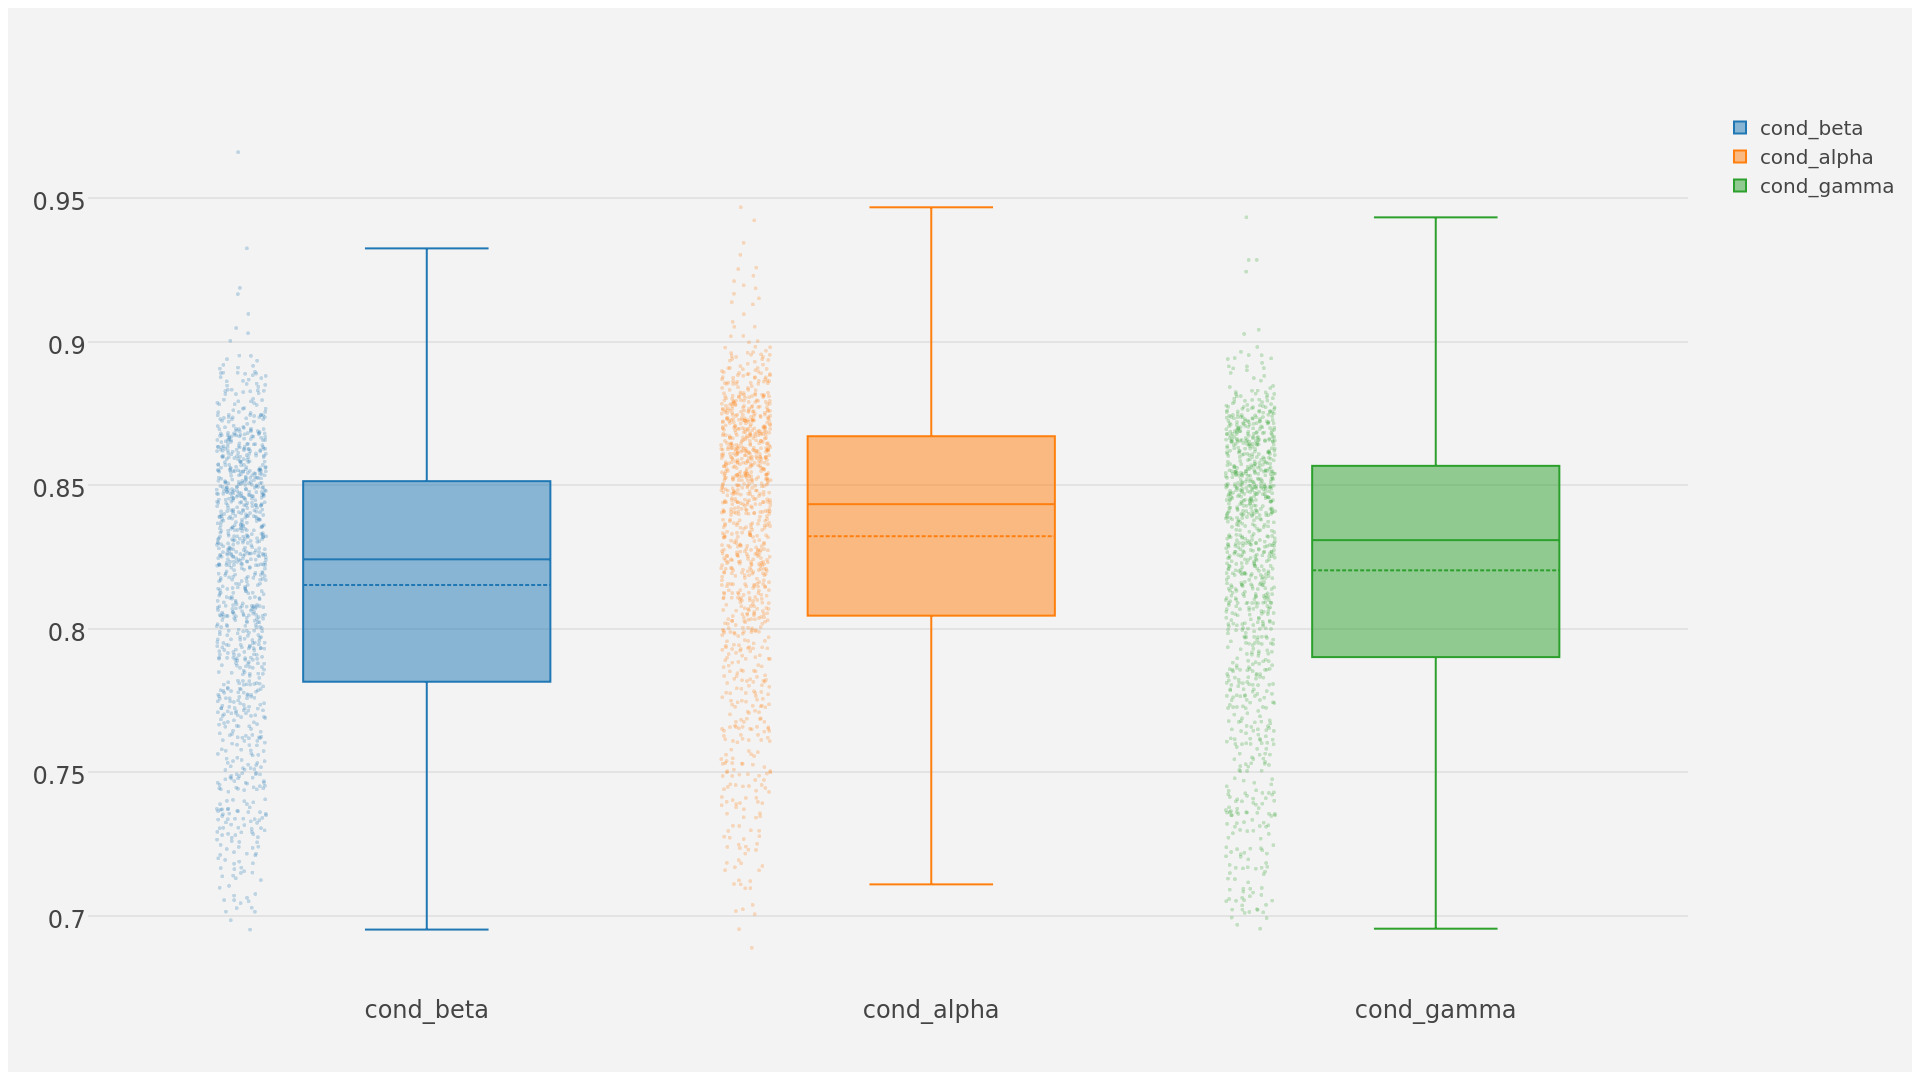
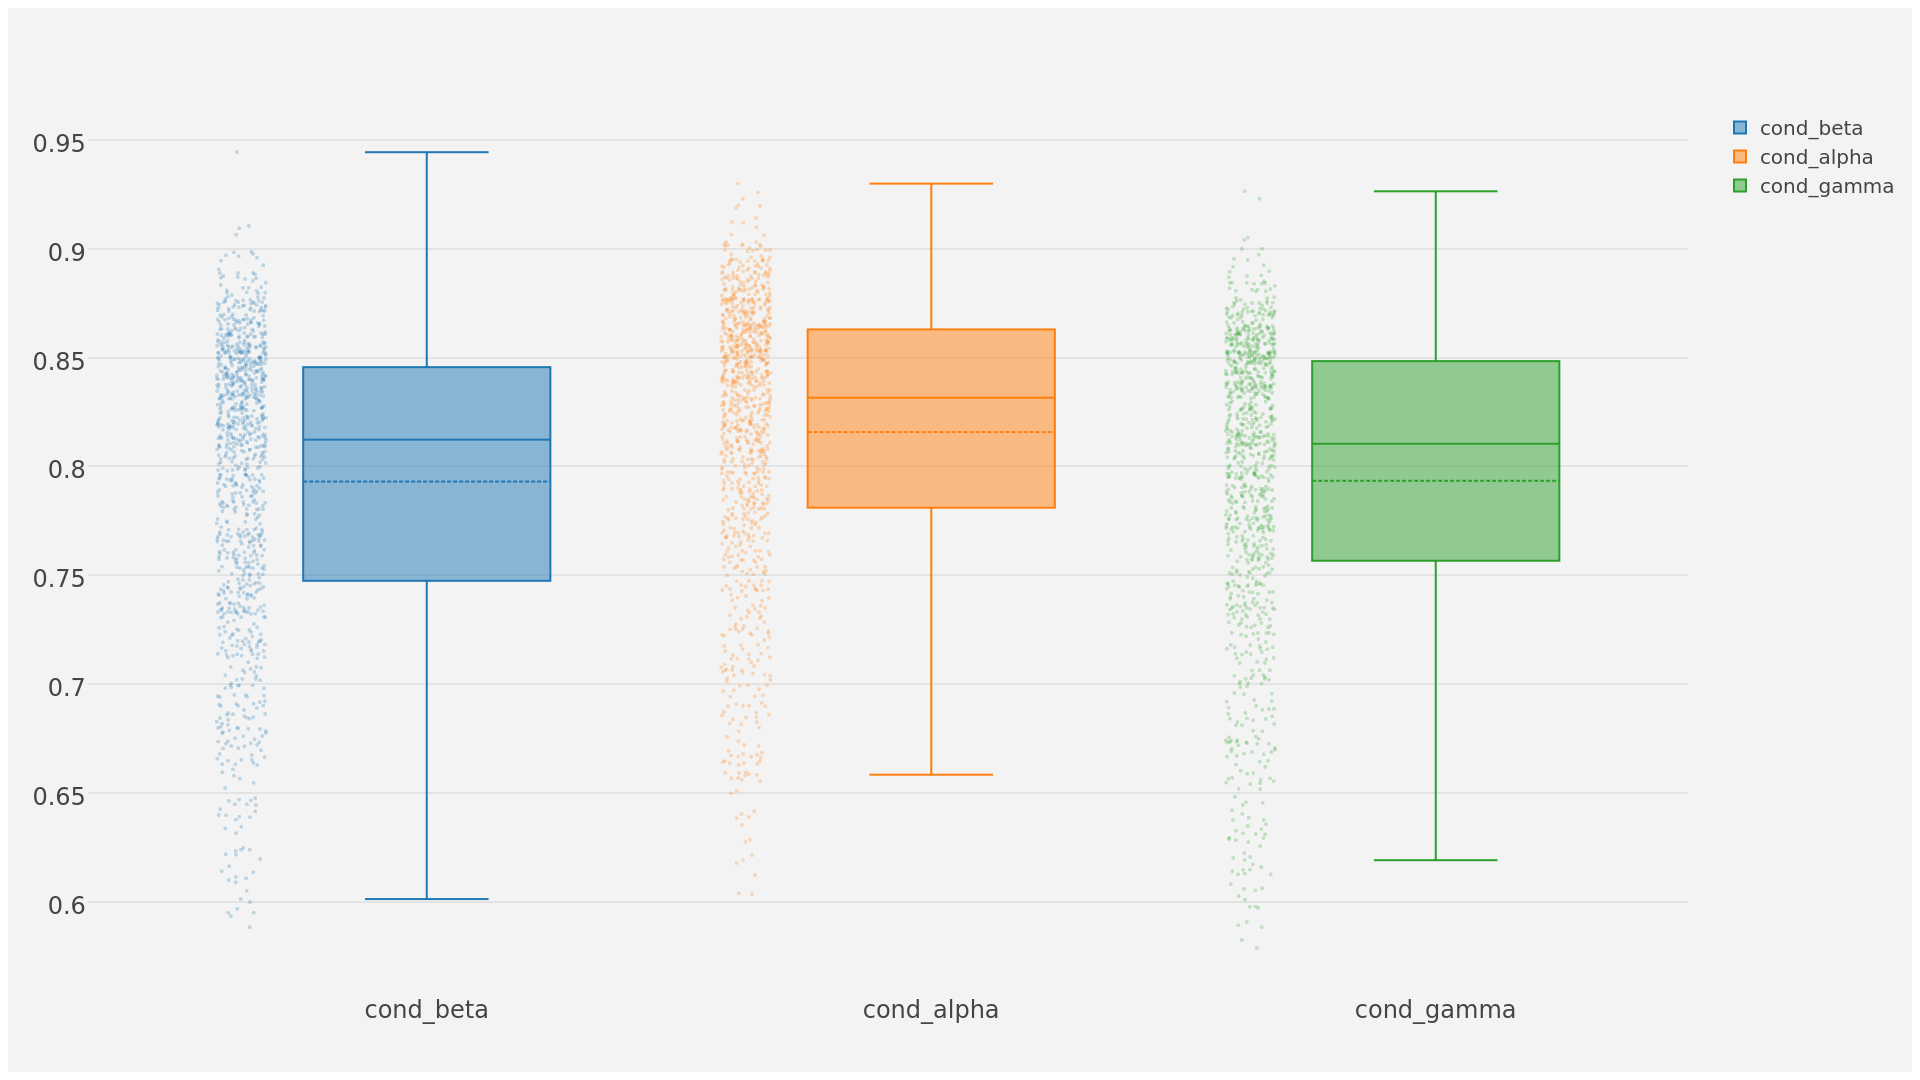
swapped over accuracy def to template-span normalization

diff --git a/py-examples/05-mh_toy/job_output/html/datastore.html b/py-examples/05-mh_toy/job_output/html/datastore.html
@@ -48,13 +48,13 @@
                     <tr>
                         <td>ds_created_at</td>
                         <td> Created At</td>
-                        <td>2016-06-17 14:17:35.817478</td>
+                        <td>2016-06-20 15:29:54.443236</td>
                     </tr>
                 
                     <tr>
                         <td>ds_updated_at</td>
                         <td> Updated At</td>
-                        <td>2016-06-17 14:19:14.824198</td>
+                        <td>2016-06-20 15:31:41.546284</td>
                     </tr>
                 
 
@@ -86,22 +86,6 @@
                 
                     <tr>
                         
-                            <td>pbsmrtpipe::pbsmrtpipe.log</td>
-                        
-                            <td>PacBio.FileTypes.log</td>
-                        
-                            <td>job_output/logs/pbsmrtpipe.log</td>
-                        
-                            <td>0</td>
-                        
-                            <td>2016-06-17 14:17:25.738317</td>
-                        
-                            <td>2016-06-17 14:17:25.738317</td>
-                        
-                    </tr>
-                
-                    <tr>
-                        
                             <td>pbsmrtpipe::master.log</td>
                         
                             <td>PacBio.FileTypes.log</td>
@@ -110,9 +94,9 @@
                         
                             <td>2077</td>
                         
-                            <td>2016-06-17 14:17:26.240177</td>
+                            <td>2016-06-20 15:29:53.543137</td>
                         
-                            <td>2016-06-17 14:17:26.240177</td>
+                            <td>2016-06-20 15:29:53.543137</td>
                         
                     </tr>
                 
@@ -126,9 +110,25 @@
                         
                             <td>991</td>
                         
-                            <td>2016-06-17 14:18:54.056711</td>
+                            <td>2016-06-20 15:31:33.411010</td>
                         
-                            <td>2016-06-17 14:18:54.056711</td>
+                            <td>2016-06-20 15:31:33.411010</td>
+                        
+                    </tr>
+                
+                    <tr>
+                        
+                            <td>pbsmrtpipe::pbsmrtpipe.log</td>
+                        
+                            <td>PacBio.FileTypes.log</td>
+                        
+                            <td>job_output/logs/pbsmrtpipe.log</td>
+                        
+                            <td>0</td>
+                        
+                            <td>2016-06-20 15:29:52.279113</td>
+                        
+                            <td>2016-06-20 15:29:52.279113</td>
                         
                     </tr>
                 

diff --git a/py-examples/05-mh_toy/job_output/index.html b/py-examples/05-mh_toy/job_output/index.html
@@ -42,7 +42,7 @@
                     <tr>
                         <td>total_run_time_sec</td>
                         <td> Walltime (sec)</td>
-                        <td>99</td>
+                        <td>108</td>
                     </tr>
                 
                     <tr>
@@ -54,7 +54,7 @@
                     <tr>
                         <td>job_id</td>
                         <td> Job Id</td>
-                        <td>806354</td>
+                        <td>805305</td>
                     </tr>
                 
                     <tr>
@@ -136,7 +136,7 @@
                         
                             <td>successful</td>
                         
-                            <td>94.75</td>
+                            <td>103.65</td>
                         
                             <td>1</td>
                         

diff --git a/py-examples/05-mh_toy/job_output/html/task_summary.html b/py-examples/05-mh_toy/job_output/html/task_summary.html
@@ -78,7 +78,7 @@
                         
                             <td>successful</td>
                         
-                            <td>94.75</td>
+                            <td>103.65</td>
                         
                             <td>1</td>
                         

diff --git a/py-examples/05-mh_toy/job_output/html/pbsmrtpipe_examples.tasks.dev_mh_toy.html b/py-examples/05-mh_toy/job_output/html/pbsmrtpipe_examples.tasks.dev_mh_toy.html
@@ -31,5 +31,5 @@
     ],
     "tables": [],
     "title": "Report mh_toy",
-    "uuid": "41d9f67a-849b-443e-b357-231c208f6c99"
+    "uuid": "fae99d0a-c674-495c-884e-f5599f10a396"
 }

diff --git a/custom-tasks/mh_toy.py b/custom-tasks/mh_toy.py
@@ -93,12 +93,11 @@ def _getKPIs(mapped_sset, subsampled_mapped_sset):
     for aln in subsampled_mapped_sset:
         data['holenumber'].append(aln.HoleNumber)
         data['readlength'].append(float(aln.readEnd - aln.readStart))
-        data['templatespan'].append(
-            float(aln.referenceEnd - aln.referenceStart))
-        data['insertions'].append(float(aln.nIns) / data['readlength'][-1])
-        data['deletions'].append(float(aln.nDel) / data['readlength'][-1])
-        data['mismatches'].append(float(aln.nMM) / data['readlength'][-1])
-        error_rate = (aln.nIns + aln.nDel + aln.nMM) / data['readlength'][-1]
+        data['templatespan'].append(float(aln.referenceEnd - aln.referenceStart))
+        data['insertions'].append(float(aln.nIns) / data['templatespan'][-1])
+        data['deletions'].append(float(aln.nDel) / data['templatespan'][-1])
+        data['mismatches'].append(float(aln.nMM) / data['templatespan'][-1])
+        error_rate = (aln.nIns + aln.nDel + aln.nMM) / data['templatespan'][-1]
         data['accuracy'].append(1 - error_rate)
         data['IPD'].append(aln.IPD())
 
